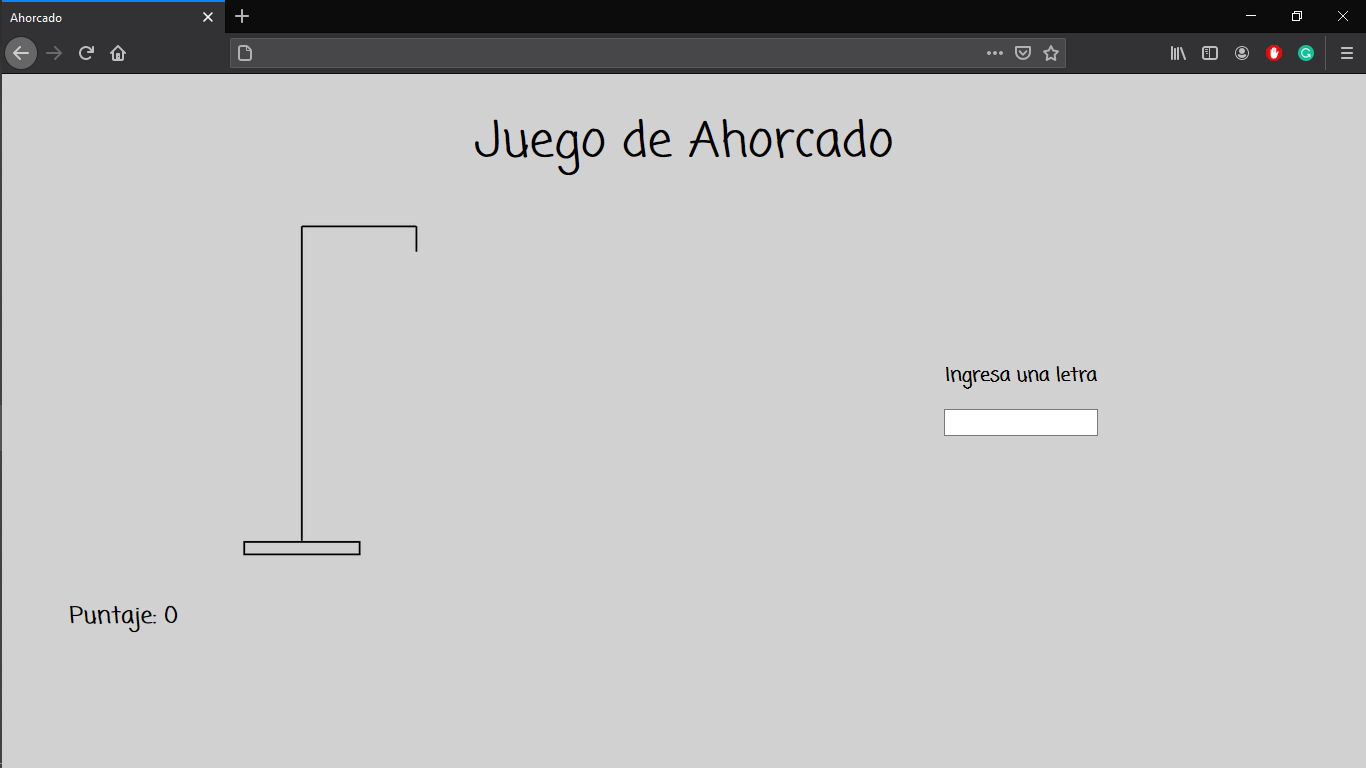
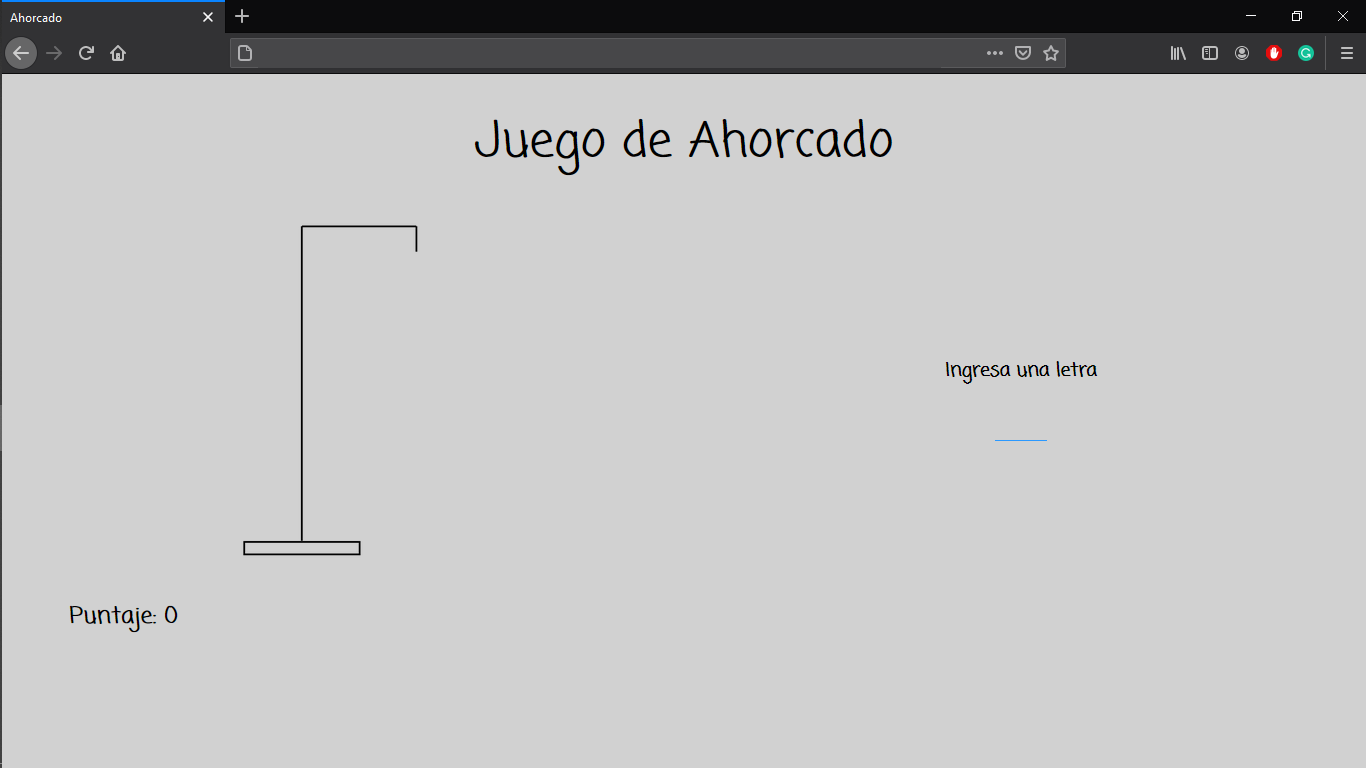
Update 18-Ejemplo.md

Changed region(s): [[0.6764, 0.5312, 0.8302, 0.5938], [0.6764, 0.4688, 0.7994, 0.5]]

diff --git a/Ahorcado/js/script.js b/Ahorcado/js/script.js
@@ -1,1 +1,41 @@
-const peliculas = ["Titanic", "Cenicienta", "Pulp Fiction", "Avatar", "Joker", "Toy Story", "Avengers", "Cars", "Batman Inicia", "Baby Driver", "Shrek", "Lalaland", "Monsters Inc", "El Padrino", "Sharknado", "Mulan", "Megamente", "Iron Man", "El transportador", "Enredados", "La Familia Adams", "Interestelar", "Venom", "Jumanji"];
+let peliculas = ["Titanic", "Cenicienta", "Pulp Fiction", "Avatar", "Joker", "Toy Story", "Avengers", "Cars", "Batman Inicia", "Baby Driver", "Shrek", "Lalaland", "Monsters Inc", "El Padrino", "Sharknado", "Mulan", "Megamente", "Iron Man", "El transportador", "Enredados", "La Familia Adams", "Interestelar", "Venom", "Jumanji"];
+
+let letras = [];
+let intentos = 1;
+let letrasUsadas = [];
+let letrasFaltantes = 0;
+let puntaje = 0;
+
+function comenzarJuego(){
+    const indice = Math.floor(Math.random() * peliculas.length);
+    nuevaPalabra(peliculas[indice]);
+}
+
+function nuevaPalabra(cadena){
+    console.log(cadena);
+    letras = Array.from(cadena);
+
+    //Para cada letra en el arreglo letras, si letra es distinta de " ", incrementamos en 1 letrasFaltantes.
+    letras.forEach(letra => {
+        if(letra !== " ")
+            letrasFaltantes++;
+    });
+
+    //Obtenemos el contenedor donde irán las casillas.
+    let contenedor = document.getElementsByClassName("contenedor-palabra");
+
+    //Por cada letra en el arreglo creamos una casilla.
+    letras.forEach(letra => {
+        let casilla = document.createElement("div");
+        //Si hay un espacio creamos un div con la clase "espacio".
+        if(letra === " ")
+            casilla.setAttribute("class", "espacio");
+
+        //En otro caso creamos el div con la clase "letra".
+        else
+            casilla.setAttribute("class", "letra");
+        contenedor[0].appendChild(casilla);
+    });
+}
+
+comenzarJuego();

diff --git a/Ahorcado/css/style.css b/Ahorcado/css/style.css
@@ -33,8 +33,41 @@ h1{
     align-items: center;
 }
 
+#entrada-letra{
+    border: none;
+    border-bottom: 1px solid #2b99ff;
+    outline: none;
+    width: 50px;
+    text-align: center;
+    font-size: 1.6vw;
+    background-color: inherit;
+    font-weight: bold;
+}
+
 .contenedor-puntaje{
     font-size: 1.7vw;
     font-weight: bold;
     margin: 30px 60px;
+}
+
+.contenedor-palabra{
+    display: flex;
+    flex-wrap: wrap;
+    justify-content: center;
+    margin-top: 25px;
+}
+
+.letra, .espacio{
+    width: 40px;
+    height: 30px;
+    margin: 5px;
+}
+
+.letra{
+    border-bottom: 2px solid #2b99ff;
+    padding-bottom: 3px;
+    font-size: 3vw;
+    display: flex;
+    justify-content: center;
+    align-items: center;
 }

diff --git a/18. Ejemplo.md b/18. Ejemplo.md
@@ -70,7 +70,7 @@ Entonces, agregaremos la primer imagen dentro del div `contenedor-imagen`
 </div>
 ```
 
-Podemos agregar también el mensaje *Ingresa una letra* y *Puntaje 0*; que se mostrará así inicialmente, pero que modificaremos mas adelante utilizando Javascript.
+Podemos agregar también el mensaje *Ingresa una letra* y *Puntaje:  0*; que se mostrará así inicialmente, pero que modificaremos mas adelante utilizando Javascript.
 
 ```html
 <div class="division contenedor-letras">
@@ -147,7 +147,7 @@ Hasta ahora, nuestro sitio web luce así:
     <img src="./img/js/ahorcado2.png" width="500px">
 </p>
 
-Ahora, vamos a comenzar con la hoja de estilos. Como mencionábamos arriba, muchos de los elementos de nuestro sitio web vamos a agregarlos dinámicamente usando Javascript, pero por ahora, podemos comenzar a escribir nuestro archivo `.css` para los elementos que creamos en el documento `.html`.
+Ahora, vamos a comenzar con la hoja de estilos. Como mencionábamos arriba, muchos de los elementos de nuestro sitio web vamos a agregarlos dinámicamente usando Javascript, pero por ahora, podemos comenzar a escribir nuestro archivo `.css` para los elementos que creamos en el documento `html`.
 
 En nuestro `index.html`, creamos una etiqueta `<link>` para la hoja de estilos externa, donde le dimos el nombre de `style.css`. Entonces, en la carpeta de nuestro proyecto, vamos a crear una nueva carpeta `css`, y dentro de ella, un documento `style.css`.
 
@@ -159,7 +159,7 @@ html{
 }
 ```
 
-También, vamos a establecer el tipo de fuente. En nuestro caso, vamos a utilizar el mismo tipo de fuente para todo el sitio, por lo que vamos a utilizar un selectro especial; `*`. El asterisco nos permite seleccionar todos los elementos de nuestro sitio web.
+También, vamos a establecer el tipo de fuente. En nuestro caso, vamos a utilizar el mismo tipo de fuente para todo el sitio, por lo que vamos a utilizar un selector especial; `*`. El asterisco nos permite seleccionar todos los elementos de nuestro sitio web.
 
 ```css
 *{
@@ -179,7 +179,7 @@ Recordemos que las unidades `vw`, nos permiten que el tamaño de fuente sea prop
 
 Ahora, vamos a distribuir los contenedores dentro de nuestro sitio web.
 
-Vamos a comenzar con el contenedor `contenedor-dividido`. Dentro de este contenedor definimos dos contenedores más, que, como ilustramos en la imagen, queremos acomodar cada uno en una mitad (horizontalmente) de la página. Para esto, vamos a darle al `contenedor-dividido` la propiedad flexbox, que recordemos, nos permite distribuir los elementos dentro del contenedor de la siguiente forma:
+Vamos a comenzar con el contenedor `contenedor-dividido`. Dentro de este contenedor definimos dos contenedores más, que, como ilustramos en la imagen, queremos acomodar cada uno en una mitad (horizontalmente) de la página. Para esto, vamos a darle al `contenedor-dividido` la propiedad `flexbox`, que recordemos, nos permite distribuir los elementos dentro del contenedor de la siguiente forma:
 
 <p align="center">
     <img src="./img/flexbox4.png">
@@ -267,6 +267,21 @@ h3{
 }
 ```
 
+Vamos a modificar también el elemento `input`, que utilizaremos para que el jugador pueda ingresar una letra para adivinar. Entonces, queremos en la caja de texto sea más pequeña, del tamaño suficiente para una letra, y además, vamos a darle un estilo similar al del resto de la página.
+
+```css
+#entrada-letra{
+    border: none;
+    border-bottom: 1px solid #2b99ff;
+    outline: none;
+    width: 50px;
+    text-align: center;
+    font-size: 1.6vw;
+    background-color: inherit;
+    font-weight: bold;
+}
+```
+
 Los estilos para el contenedor `contenedor-palabra` los dejaremos para más adelante, cuando tengamos el código de Javascript.
 
 Entonces, solo nos falta el contenedor `contenedor-puntaje`. Para este contenedor, solamente vamos a modificar la fuente; vamos a hacerla más grade y negrita. Además, vamos a darle un margen, para que el mensaje no aparezca tan pagado al borde la página.
@@ -313,7 +328,7 @@ Lo que haremos será crear una variable, donde almacenaremos un número aleatori
 
 ```javascript
 function comenzarJuego(){
-    const indice = Math.floor(Math.random * peliculas.length);
+    const indice = Math.floor(Math.random() * peliculas.length);
 }
 ```
 La función [`Math.random`](https://developer.mozilla.org/es/docs/Web/JavaScript/Referencia/Objetos_globales/Math/random) genera un número aleatorio en rango `[0, 1)`. Y la función [`Math.floor`](https://developer.mozilla.org/es/docs/Web/JavaScript/Referencia/Objetos_globales/Math/floor) nos permite obtener solamente números enteros, pues devuelve el entero inmediato que sea menor o igual al valor que recibe.
@@ -322,7 +337,7 @@ Después vamos a llamar a una función que se encargará de crear las casillas c
 
 ```javascript
 function comenzarJuego(){
-    const indice = Math.floor(Math.random * peliculas.length);
+    const indice = Math.floor(Math.random() * peliculas.length);
     nuevaPalabra(peliculas[indice]);
 }
 ```
@@ -396,3 +411,73 @@ function nuevaPalabra(cadena){
     });
 }
 ```
+
+Para comprobar que las funciones que hemos escrito hasta ahora funcionan correctamente, podemos agregar una llamada a la función `comenzarJuego()` al final de nuestro archivo `script.js`, y abrir nuestro sitio web, `index.html` en el navegador.
+
+<p align="center">
+    <img src="./img/js/ahorcado5.png">
+</p>
+
+Aparentemente nuestro sitio luce exactamente igual.
+
+Vamos a acceder a las *Herramientas del desarrollador* (`ctrl + shift + i`).
+
+<p align="center">
+    <img src="./img/js/inspector.png">
+</p>
+
+Podemos ver que en la sección superior de la ventana aparece el código en nuestro documento `html`. Pero, si seleccionamos el div `contenedor-palabra` para mostrar su contenido, veremos que ya no está vacío; ahora, aparecen los div `espacio` y `letra` que creamos en la función `nuevaPalabra()`.
+
+<p align="center">
+    <img src="./img/js/inspector2.png">
+</p>
+
+Sin embargo, como todos estos nuevos contenedores están vacíos, por defecto no son visibles en nuestro sitio web. Entonces, vamos a volver a nuestra hoja de estilos para cambiar eso.
+
+Cuando creamos los contenedores en la función `nuevaPalabra()`, creamos dos tipos distintos, uno para las letras y otro para los espacios, cuando tenemos más de dos palabras. Queremos que ambos tipos de contenedores sean del mismo tamaño, y, para los contenedores `letra`, resaltaremos el borde inferior, así aparecerán como una raya por cada letra que el jugador debe adivinar; y cuando adivine una letra correctamente, esta aparecerá sobre la raya correspondiente (realmente estará dentro del contenedor). Por otro lado los contenedores `espacio` no serán visibles en la página, pero servirán para separa equitativamente las palabras.
+
+Para empezar, queremos que la palabra, o palabras a adivinar aparezcan centradas en la pantalla. Para esto, vamos a utilizar `flexbox` en el contenedor `contenedor-palabra`, que es el que contiene a todos los contenedores `letra` y `espacio`.
+
+```css
+.contenedor-palabra{
+    display: flex;
+    flex-wrap: wrap;
+    justify-content: center;
+    margin-top: 25px;
+}
+
+```
+
+
+Le asignamos un margen superior de 25px para darle un poco de espacio con respecto a la imagen.
+
+Ahora, vamos darle a los dos tipos de contenedores el mismo tamaño.
+
+```css
+.letra, .espacio{
+    width: 40px;
+    height: 30px;
+    margin: 5px;
+}
+```
+
+En las hojas de estilo, si utilizamos más de dos selectores, separados por una coma, las propiedades que les asignemos se aplicarán a todos los elementos correspondientes a ambos selectores.
+
+Ahora, vamos a cambiar el estilo únicamente de los contenedores `letra`. Como mencionamos, vamos a resaltar el borde inferior, además vamos a cambiar el tamaño de fuente y vamos a centrar su contenido, para que, cuando el jugador adivine una letra, esta aparezca alineada sobre la raya correspondiente.
+
+```css
+.letra{
+    border-bottom: 2px solid #2b99ff;
+    padding-bottom: 3px;
+    font-size: 3vw;
+    display: flex;
+    justify-content: center;
+    align-items: center;
+}
+```
+
+Así es como luce nuestra página web ahora.
+
+<p align="center">
+    <img src="./img/js/ahorcado6.png">
+</p>
